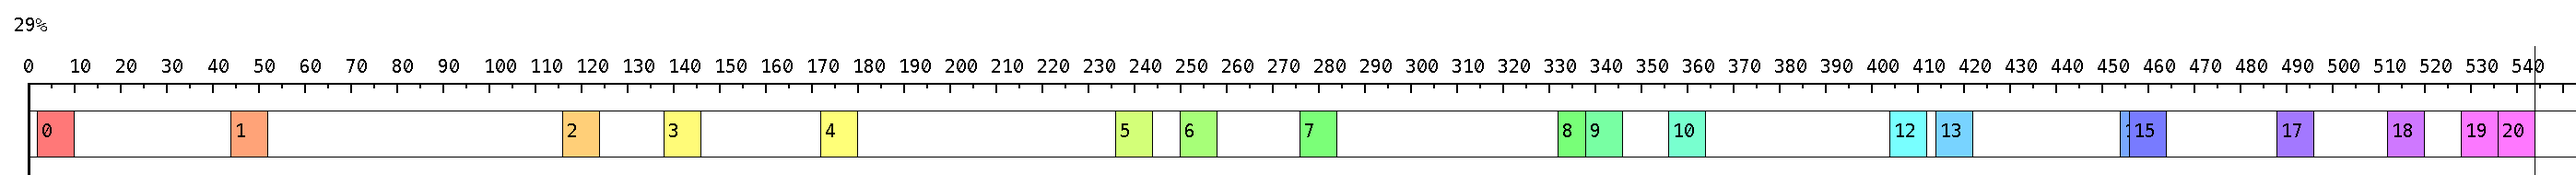
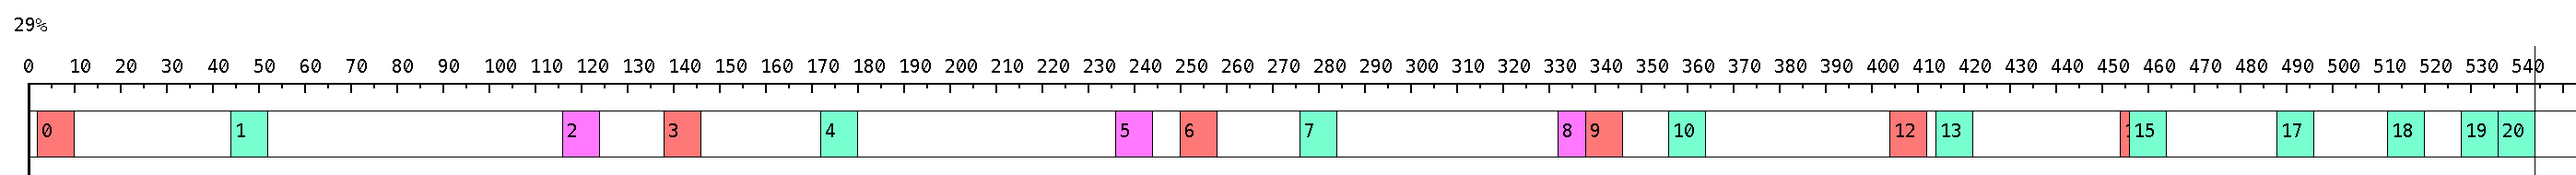
cont bug fixed, rr still have problem

diff --git a/sche.py b/sche.py
@@ -1,5 +1,6 @@
 
 import draw
+from collections import defaultdict
 
 
 def read_tasks(algo_map_input):
@@ -45,7 +46,7 @@ def read_tasks(algo_map_input):
 def fifo(task_list):
     sched_tasks = []
     tick = 0
-    for task in task_list:
+    for index, task in enumerate(task_list):
         arrive_time = task[1]
         task_length = task[0]
 
@@ -62,7 +63,8 @@ def fifo(task_list):
             sched_start = arrive_time - diff
             sched_end = arrive_time + task_length - diff
             tick = sched_end
-        sched_tasks.append(tuple([sched_start, sched_end]))
+        sched_tasks.append(tuple([index, sched_start, sched_end]))
+
     return sched_tasks
 
 
@@ -84,8 +86,6 @@ def rr(task_list):
     print(i_max)
 
     while True:
-        print("ion whiel")
-
         finished = False
 
         runned = False
@@ -95,11 +95,13 @@ def rr(task_list):
                     runned = True
                     # can schedule
                     if time_left[i] < max_fac_time:
-                        sched_tasks.append(tuple([tick, tick+time_left[i]]))
+                        sched_tasks.append(
+                            tuple([i, tick, tick+time_left[i]]))
                         time_left[i] = 0
                         tick += time_left[i]
                     else:
-                        sched_tasks.append(tuple([tick, tick+max_fac_time]))
+                        sched_tasks.append(
+                            tuple([i, tick, tick+max_fac_time]))
                         time_left[i] -= max_fac_time
                         tick += time_left[i]
 
@@ -141,14 +143,15 @@ if algo_num == 1:
 print(sched_tasks)
 
 sche = []
-for index, task in enumerate(sched_tasks):
-    sche.append(tuple([index, task[0], task[1], 0]))
-    # print(tuple([index,task[0],task[1],0]))
 
+for i, v in enumerate(sched_tasks):
+    sche.append(tuple([i, v[1], v[2], 0]))
 
-cont = {}
-for i in range(len(sche)):
-    cont[i] = {i}
+cont = defaultdict(list)
+for i, task in enumerate(sched_tasks):
+    cont[task[0]].append(i)
+
+print(cont)
 
 
 draw.draw_canvas(sche, cont, 'a.png')
